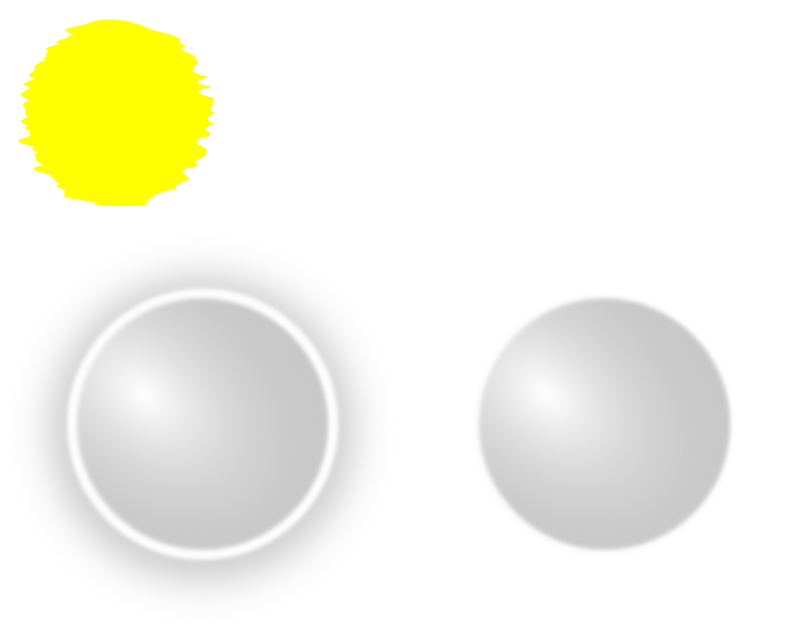
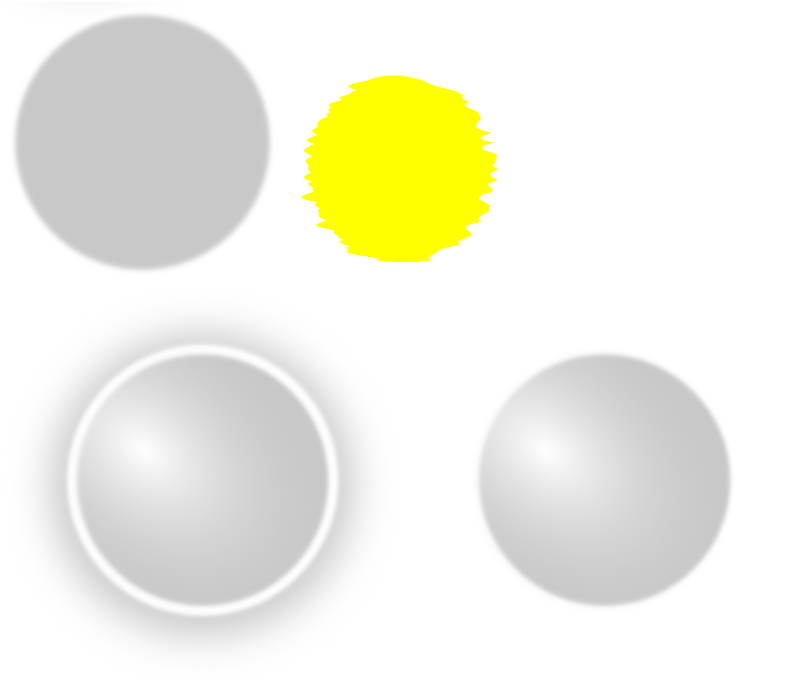
Working on planet sizing

diff --git a/GalCon-Client/GalCon-Client/src/com/xxx/galcon/screen/BoardScreen.java b/GalCon-Client/GalCon-Client/src/com/xxx/galcon/screen/BoardScreen.java
@@ -278,26 +278,35 @@ public class BoardScreen implements ScreenFeedback {
 		float tileHeightInWorld = boardTable.getHeight() / gameBoard.heightInTiles;
 		float yOffset = boardTable.getY();
 
-		TextureRegionDrawable planetTexture = new TextureRegionDrawable(planetAtlas.findRegion("planet2"));
+		TextureRegionDrawable planetTexture = new TextureRegionDrawable(planetAtlas.findRegion("base_planet"));
 
-		float minPlanetWidth = tileWidthInWorld * 0.6f;
-		float minPlanetHeight = tileHeightInWorld * 0.6f;
-		planetTexture.setMinWidth(minPlanetWidth);
-		planetTexture.setMinHeight(minPlanetHeight);
+		float minPlanetSize = tileWidthInWorld * 0.4f;
+		planetTexture.setMinWidth(minPlanetSize);
+		planetTexture.setMinHeight(minPlanetSize);
 
 		TextButtonStyle style = new TextButtonStyle(planetTexture, planetTexture, planetTexture, Fonts.getInstance(
 				assetManager).mediumFont());
 		for (final Planet planet : gameBoard.planets) {
 			float maxExpand = 5;
 			float expand = planet.shipRegenRate > maxExpand ? maxExpand : planet.shipRegenRate;
-			planetTexture.setMinWidth(minPlanetWidth + ((minPlanetWidth * 0.2f) * expand));
-			planetTexture.setMinHeight(minPlanetHeight + ((minPlanetHeight * 0.2f) * expand));
+			float newPlanetSize = minPlanetSize + ((tileWidthInWorld * 0.08f) * expand);
+			planetTexture.setMinWidth(newPlanetSize);
+			planetTexture.setMinHeight(newPlanetSize);
 			final PlanetButton planetButton = new PlanetButton(fontShader, ""
 					+ planet.numberOfShipsToDisplay(gameBoard, roundHasAlreadyBeenAnimated()), style, planet);
 
 			planetButton.setX(tileWidthInWorld * planet.position.x);
 			planetButton.setY((tileHeightInWorld * planet.position.y) + yOffset);
 			planetButton.setColor(planet.getColor());
+			
+			
+			
+			//TextureRegion lineRegion = gameBoardAtlas.findRegion("line");
+			//Line line = new Line(new Color(0.9f, 0, 0, 1), 10, lineRegion);
+			//line.setHeight(10);
+			//line.setX(tileWidthInWorld * planet.position.x);
+			//line.setY((tileHeightInWorld * planet.position.y) + yOffset);
+			//stage.addActor(line);
 
 			planetButton.addListener(new ClickListener() {
 
